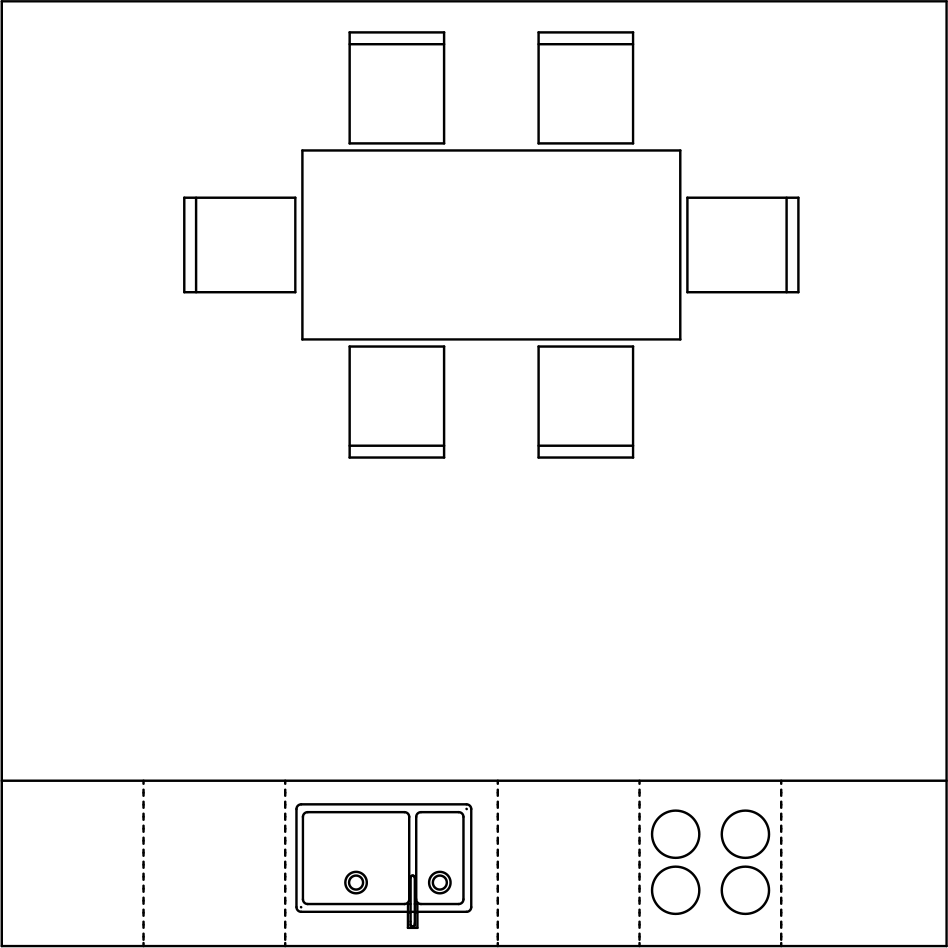
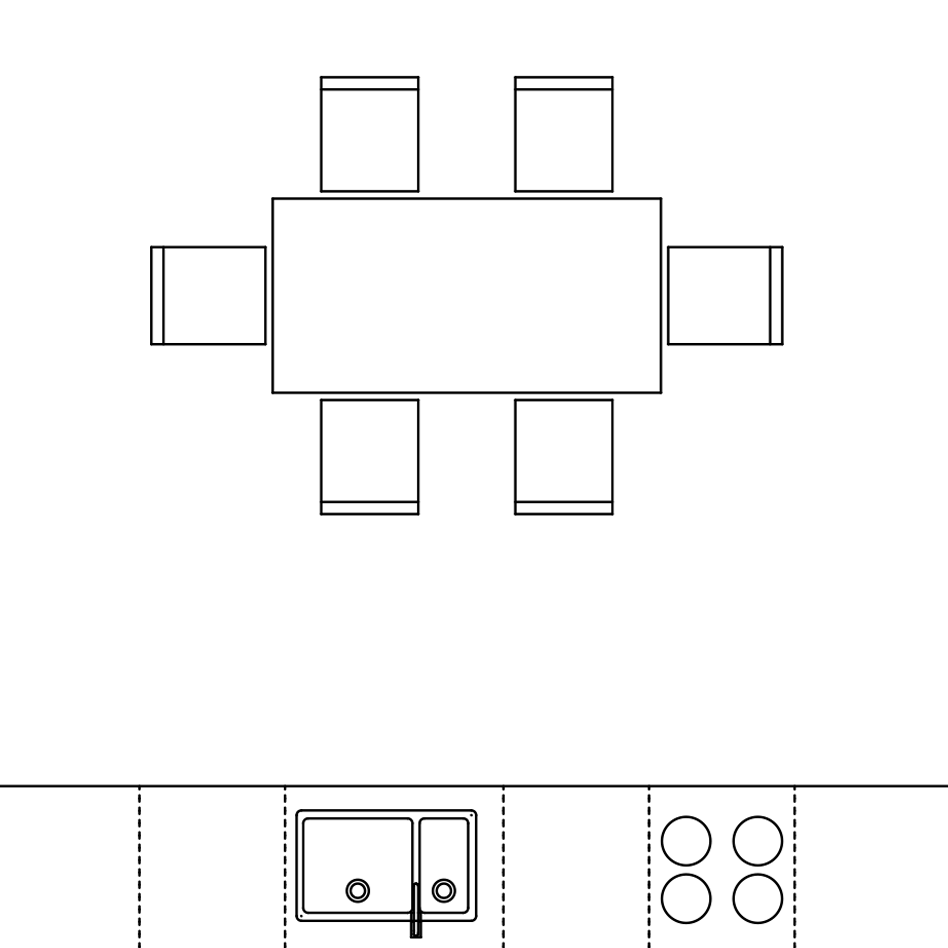
style

Changed region(s): [[0.0, 0.0, 1.0, 1.0]]

diff --git a/css/main.css b/css/main.css
@@ -68,7 +68,8 @@ body {
   height: 195px;
   background-image: url("../roomplans/kitchen.png");
   background-repeat: no-repeat;
-  background-size: cover;
+  background-size: 100%;
+  background-position: 0px 0px;
 }
 
 #draggable2 {
@@ -112,12 +113,8 @@ body {
   right: 0;
   top: 0;
   bottom: 0;
-  background-image: url("../roomplans/grid.png");
 }
 .sandbox div {
-  -webkit-box-sizing: border-box;
-  -moz-box-sizing: border-box;
-  box-sizing: border-box;
   -webkit-transition-property: left, top;
   -moz-transition-property: left, top;
   -o-transition-property: left, top;
@@ -126,13 +123,16 @@ body {
   -moz-transition-duration: 0.1s;
   -o-transition-duration: 0.1s;
   transition-duration: 0.1s;
-  border: 1px solid black;
   overflow: hidden;
+  -webkit-box-sizing: border-box;
+  -moz-box-sizing: border-box;
+  box-sizing: border-box;
+  border: 1px solid gray;
 }
 .sandbox div img {
   display: block;
 }
-.sandbox div .ui-icon-gripsmall-diagonal-se {
+.sandbox div .ui-resizable, .sandbox div .ui-icon-gripsmall-diagonal-se, .sandbox div .ui-resizable-e, .sandbox div .ui-resizable-s {
   border: 0;
 }
 

diff --git a/Scripts.js b/Scripts.js
@@ -1,5 +1,3 @@
- 
-
  $(function() {     
 
       var $droppable5 = $( "#droppable5" );
@@ -9,15 +7,15 @@
       var $sandbox = $( "#sandbox" );
        
           // let the gallery items be draggable
-          $( "div", $sandbox ).draggable({ cursor: "move", snap: true, containment: "parent", 
-        grid: [ 39,39 ] }).resizable({ aspectRatio: true,  grid: 39, resize: function( event, ui ){resizedBlock(event, ui)} });
+          $( "div", $sandbox ).draggable({ cursor: "move", obstacle: ".obstacle", preventCollision: true , snap: true, containment: "parent", 
+        grid: [ 20,20 ] }).resizable({ aspectRatio: true,  grid: 20, resize: function( event, ui ){resizedBlock(event, ui)} });
 
         $( "#draggable4" ).draggable({cursor: "move"});
         var recycle_icon = "<a href='link/to/recycle/script/when/we/have/js/off' title='Recycle this image' class='ui-icon ui-icon-refresh'>Recycle image</a>";
     
      
       $( "#draggable6" ).draggable({ cursor: "move", snap: true, containment: "parent", 
-        grid: [ 39,39 ] });;
+        grid: [ 20,20 ] });;
             
 
     });

diff --git a/index.html b/index.html
@@ -23,7 +23,7 @@
                     <div class="SqSum" id="SqSum">00</div>
                     <div class="TotalPrice" id="TotalPrice">00</div>
                 </div>
-                
+
             </div>
 
             <!-- Sandbox -->
@@ -34,13 +34,13 @@
                     <div class="SqMeter" id="Kitchen">00</div>
                 </div>
 
-                <div id="draggable2" class="ui-widget-content" class="DragableClass">
-                    <p>Living room</p>
+                <div id="draggable2" class="ui-widget-content">
+                    <p>Kitchen</p>
                     <div class="SqMeter" id="Kitchen">00</div>
                 </div>
 
                 <div id="draggable3" class="ui-widget-content">
-                    <p>Bedroom</p>
+                    <p>Kitchen</p>
                     <div class="SqMeter" id="Kitchen">00</div>
                 </div>
 

diff --git a/sass/main.sass b/sass/main.sass
@@ -13,7 +13,8 @@ body
 	height: 195px
 	background-image: url("../roomplans/kitchen.png")
 	background-repeat: no-repeat
-	background-size: cover
+	background-size: 100%
+	background-position: 0px  0px
 
 #draggable2
 	width: 273px
@@ -51,22 +52,21 @@ body
 	right: 0
 	top: 0
 	bottom: 0
-	background-image: url("../roomplans/grid.png")
 
 	div 
+		@include transition-property(left, top)
+		@include transition-duration(0.10s)
+		overflow: hidden
 		-webkit-box-sizing: border-box
 		-moz-box-sizing: border-box
 		box-sizing: border-box
-		@include transition-property(left, top)
-		@include transition-duration(0.10s)
-		border: 1px solid black
-		overflow: hidden
+		border: 1px solid gray
 
 
 		img 
 			display: block
 
-		.ui-icon-gripsmall-diagonal-se
+		.ui-resizable, .ui-icon-gripsmall-diagonal-se, .ui-resizable-e, .ui-resizable-s
 			border: 0
 
 
